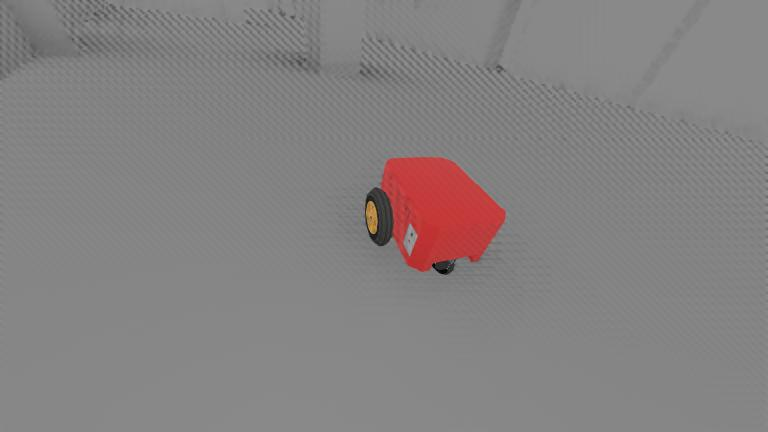
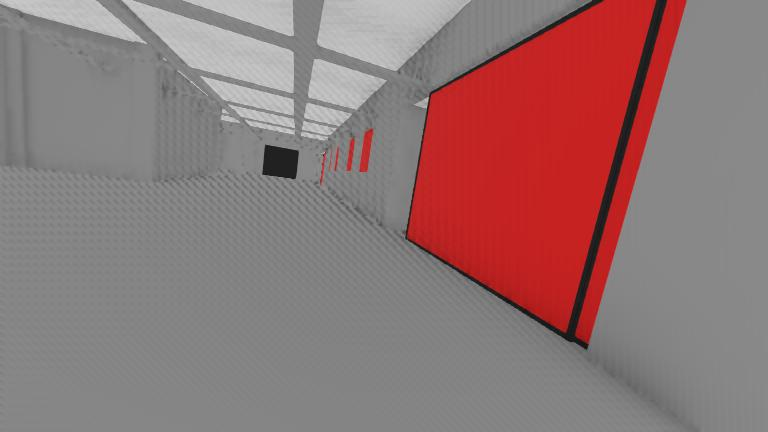
Some refactoring and added colors to iilab

diff --git a/robot_localization_package/src/particle_filter.cpp b/robot_localization_package/src/particle_filter.cpp
@@ -73,7 +73,7 @@ bool isParticleInFreeSpace(double x_world, double y_world, const PGMImage &pgm, 
 }
 
 ParticleFilter::ParticleFilter() : Node("particle_filter"),
-                                   last_x_(0.0), last_y_(0.0), last_theta_(0.0), iterationCounter(0.0), first_update_(true),
+                                   last_x_(0.0), last_y_(0.0), last_theta_(0.0), iterationCounter(0.0),
                                    msg_odom_base_link_(nullptr), last_map_msg_(nullptr)
 {
     std::cout << "ParticleFilter Constructor START" << std::endl;
@@ -845,7 +845,7 @@ void ParticleFilter::resampleParticles(ResamplingAmount type, ResamplingMethod m
     {
         RCLCPP_INFO(this->get_logger(), "Injecting random particles.");
         // injectRandomParticles(inject_percentage_);
-        //injectRandomParticles_pgm(inject_percentage_);
+        injectRandomParticles_pgm(inject_percentage_);
 
         iterationCounter = 0;
     }

diff --git a/robot_worlds/launch/just_controller.py b/robot_worlds/launch/just_controller.py
@@ -33,6 +33,13 @@ def generate_launch_description():
         arguments=["0", "0", "0", "0", "0", "0", "map", "odom"]
     )
 
+    tf_static_rgbd = Node(
+        package="tf2_ros",
+        executable="static_transform_publisher",
+        name="map_to_odom_broadcaster",
+        arguments=["0", "0", "0", "0", "-0.5", "0", "base_footprint", "rgbd"]
+    )
+
     tf_static_lidar = Node(
         package="tf2_ros",
         executable="static_transform_publisher",
@@ -44,6 +51,7 @@ def generate_launch_description():
     return LaunchDescription([
         tf_static,
         tf_static_lidar,
+        tf_static_rgbd,
         robot_controller,
         teleop
     ])

diff --git a/robot_localization_package/include/robot_localization_package/particle_filter.hpp b/robot_localization_package/include/robot_localization_package/particle_filter.hpp
@@ -173,8 +173,7 @@ private:
 
     // Particle filter state
     double iterationCounter = 0.0;
-    bool first_update_ = true;
-    bool with_angle_ = true;
+    bool with_angle_ = false;
     
     // Last estimated pose
     double last_x_ = 0.0, last_y_ = 0.0, last_theta_ = 0.0;
